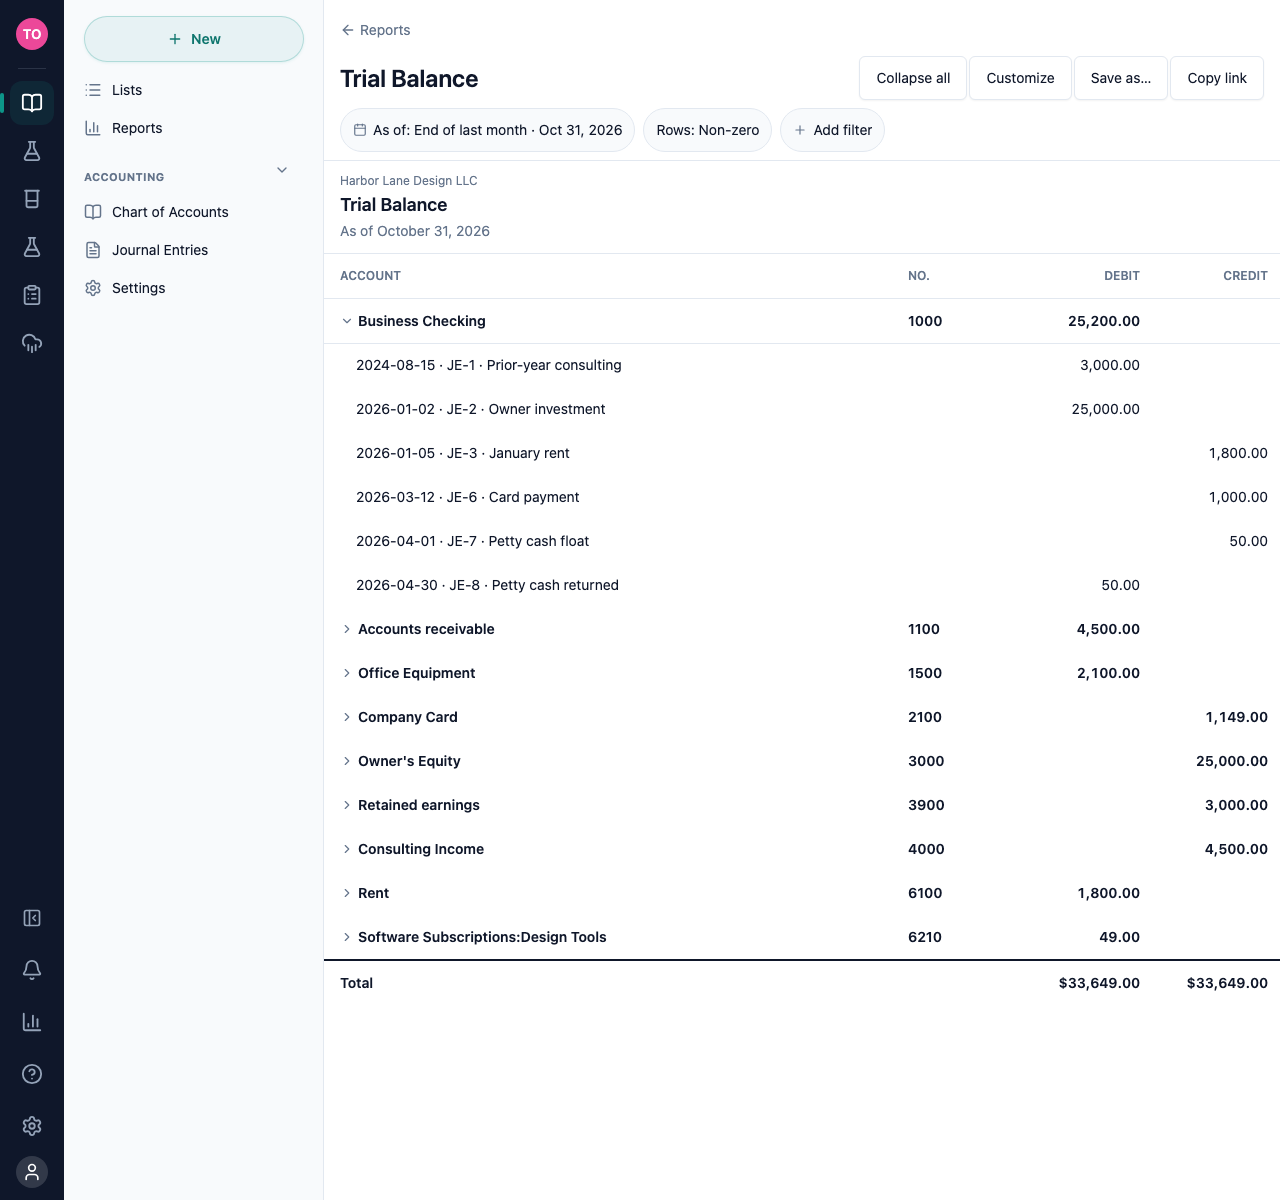
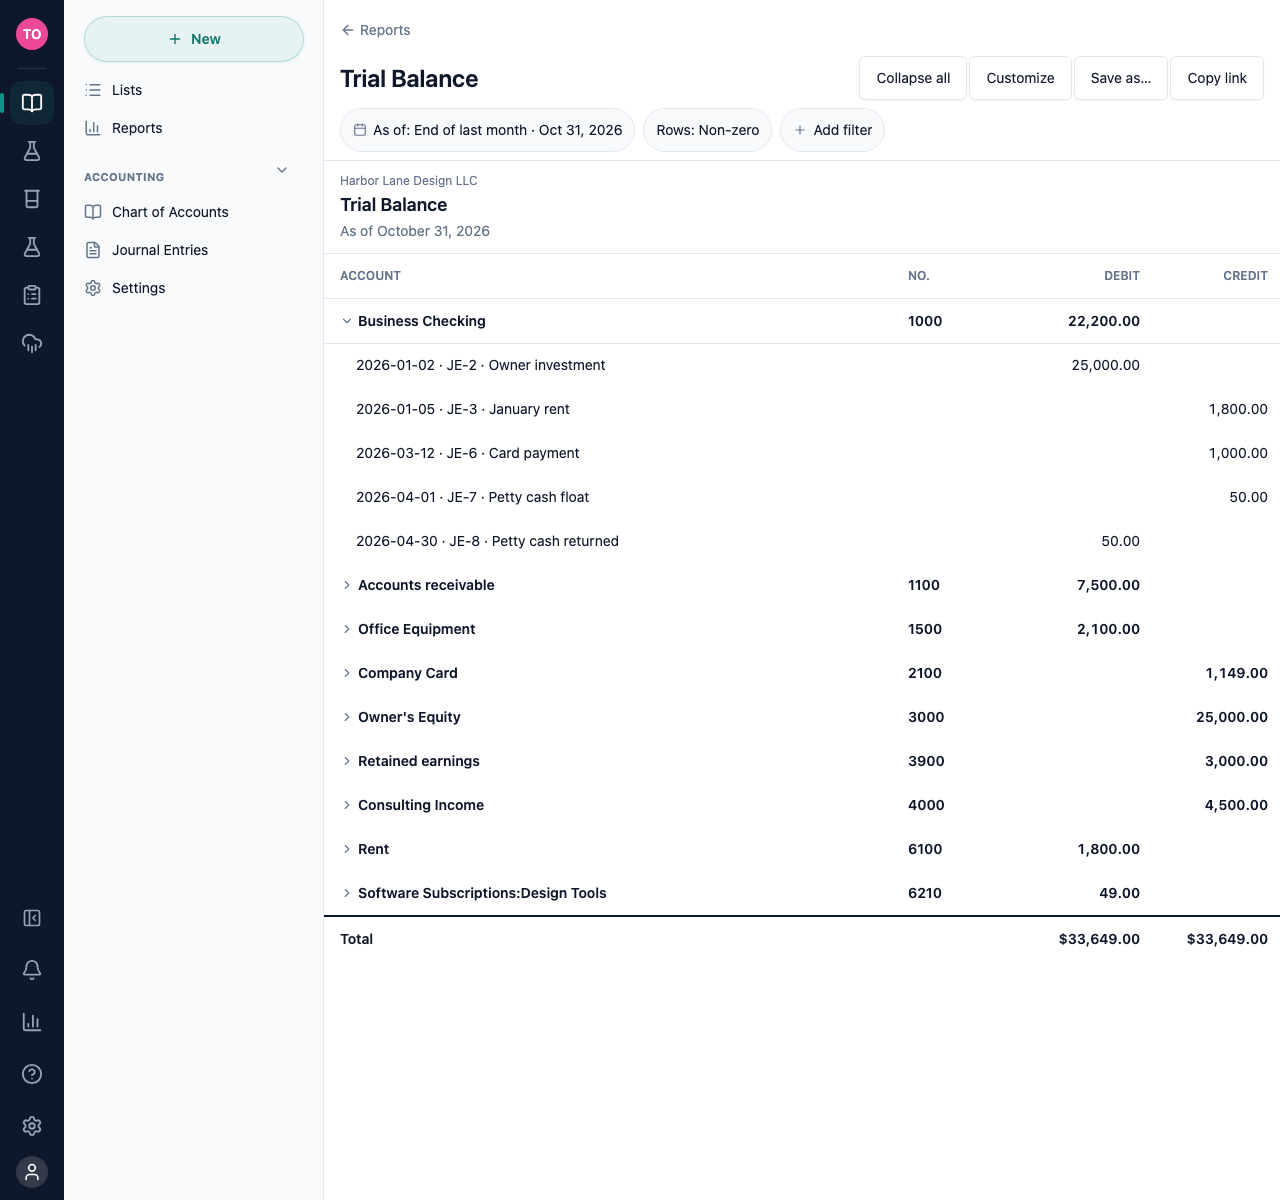
chore(books): trial-balance fixture seeds the prior-year entry on receivable; spec e2e notes follow core's view

diff --git a/tinycld/books/lib/trial-balance-fixture.ts b/tinycld/books/lib/trial-balance-fixture.ts
@@ -66,7 +66,7 @@ export const PRIOR_YEAR_SEED = {
     day: '08-15',
     memo: 'Prior-year consulting',
     lines: [
-        ['checking', 300000, 0],
+        ['receivable', 300000, 0],
         ['consulting', 0, 300000],
     ] as [string, number, number][],
 }
@@ -126,8 +126,8 @@ export const TRIAL_BALANCE_ACCOUNTS: TrialBalanceAccount[] = [
 // lines (it shows only under Rows = All); Old Petty Cash nets to zero (Active shows
 // 0.00, Non-zero hides it). Debit and credit balances each add to 33,649.00.
 const NET: Record<string, number | null> = {
-    checking: 2520000,
-    receivable: 450000,
+    checking: 2220000,
+    receivable: 750000,
     equipment: 210000,
     card: -114900,
     equity: -2500000,
@@ -141,7 +141,6 @@ const NET: Record<string, number | null> = {
 
 // The opened account's posted lines, labelled "<date> · <entry number> · <memo>".
 const CHECKING_LINES = [
-    { id: 'tbline000000001', label: '2024-08-15 · JE-1 · Prior-year consulting', net: 300000 },
     { id: 'tbline000000002', label: '2026-01-02 · JE-2 · Owner investment', net: 2500000 },
     { id: 'tbline000000003', label: '2026-01-05 · JE-3 · January rent', net: -180000 },
     { id: 'tbline000000004', label: '2026-03-12 · JE-6 · Card payment', net: -100000 },

diff --git a/docs/specs/trial-balance-design.md b/docs/specs/trial-balance-design.md
@@ -153,7 +153,7 @@ E2e `tests/e2e/trial-balance.spec.ts`, desktop 1280 and phone 390×844 where the
 4. **Accounts filter** (desktop, phone): Add filter → Accounts → search the new expense account's name, pick it, Apply: only its row shows; "All Expense accounts" picks the whole type; the chip's remove control clears the filter.
 5. **Drill-down** (desktop): open the expense row: its lines show labelled "<date> · <entry number> · <memo>" with their amounts by sign.
 6. **Live update** (desktop): page A shows As of Today; page B (same context) posts to a new account; page A shows the row without a reload.
-7. **Retained earnings** (desktop): post an entry dated two calendar years ago on a new Income account; As of Today: the Income account has no row and the Retained earnings row sits among the equity accounts; As of Custom = that day: the Income account shows the amount in Credit.
+7. **Retained earnings** (desktop): the seeded entry dated two calendar years ago (`PRIOR_YEAR_SEED`: Accounts receivable / Consulting Income 3,000.00); As of Today: the Consulting Income row holds none of it and the Retained earnings row sits among the equity accounts with it in Credit; As of Custom = that day: Consulting Income shows 3,000.00 in Credit and Retained earnings has no row. (Corrected 2026-11-04: the entry is seeded, not posted by the test, because books-settings.spec.ts holds a close date of 2026-06-30 on the shared e2e DB for a few seconds, which refuses any post dated before it.)
 8. **Period and empty** (desktop, phone): Custom 1900-01-01 → "No rows as of January 1, 1900" with "Show end of last fiscal year"; the URL keeps `p-asOf`; no history entry is added. (Corrected 2026-11-04: core's `emptyMessage` writes the day in words.)
 9. **Phone layout** (phone): each account row wraps onto two lines inside the table (the label, then No., Debit and Credit), and neither the table nor the page scrolls sideways. (Corrected 2026-11-04: checkpoint 0's E14, added by the human after this spec was written, wraps a row that is too wide instead of scrolling it.)
 
